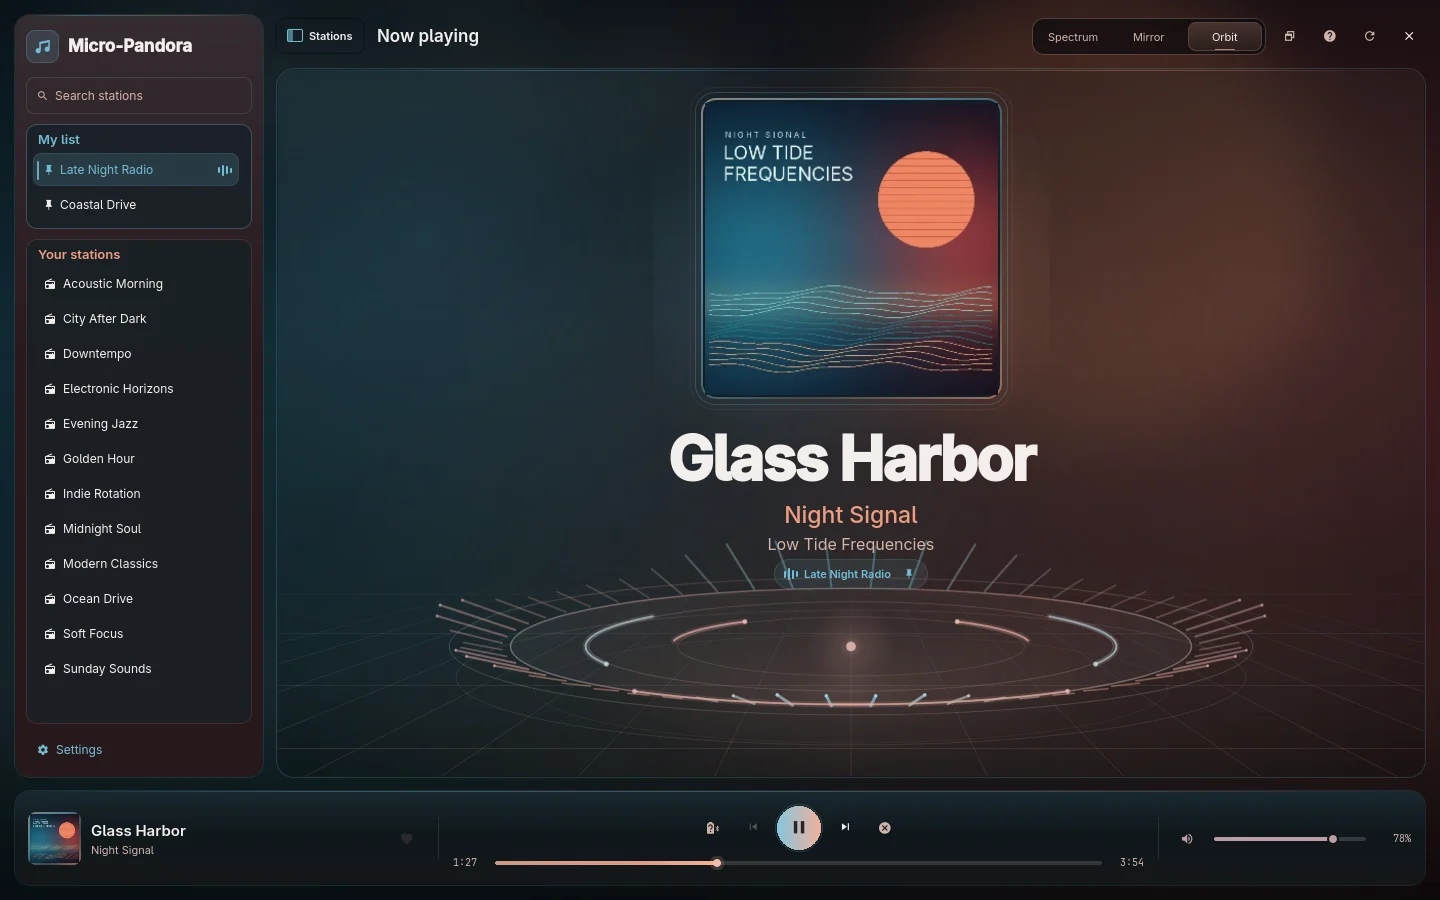
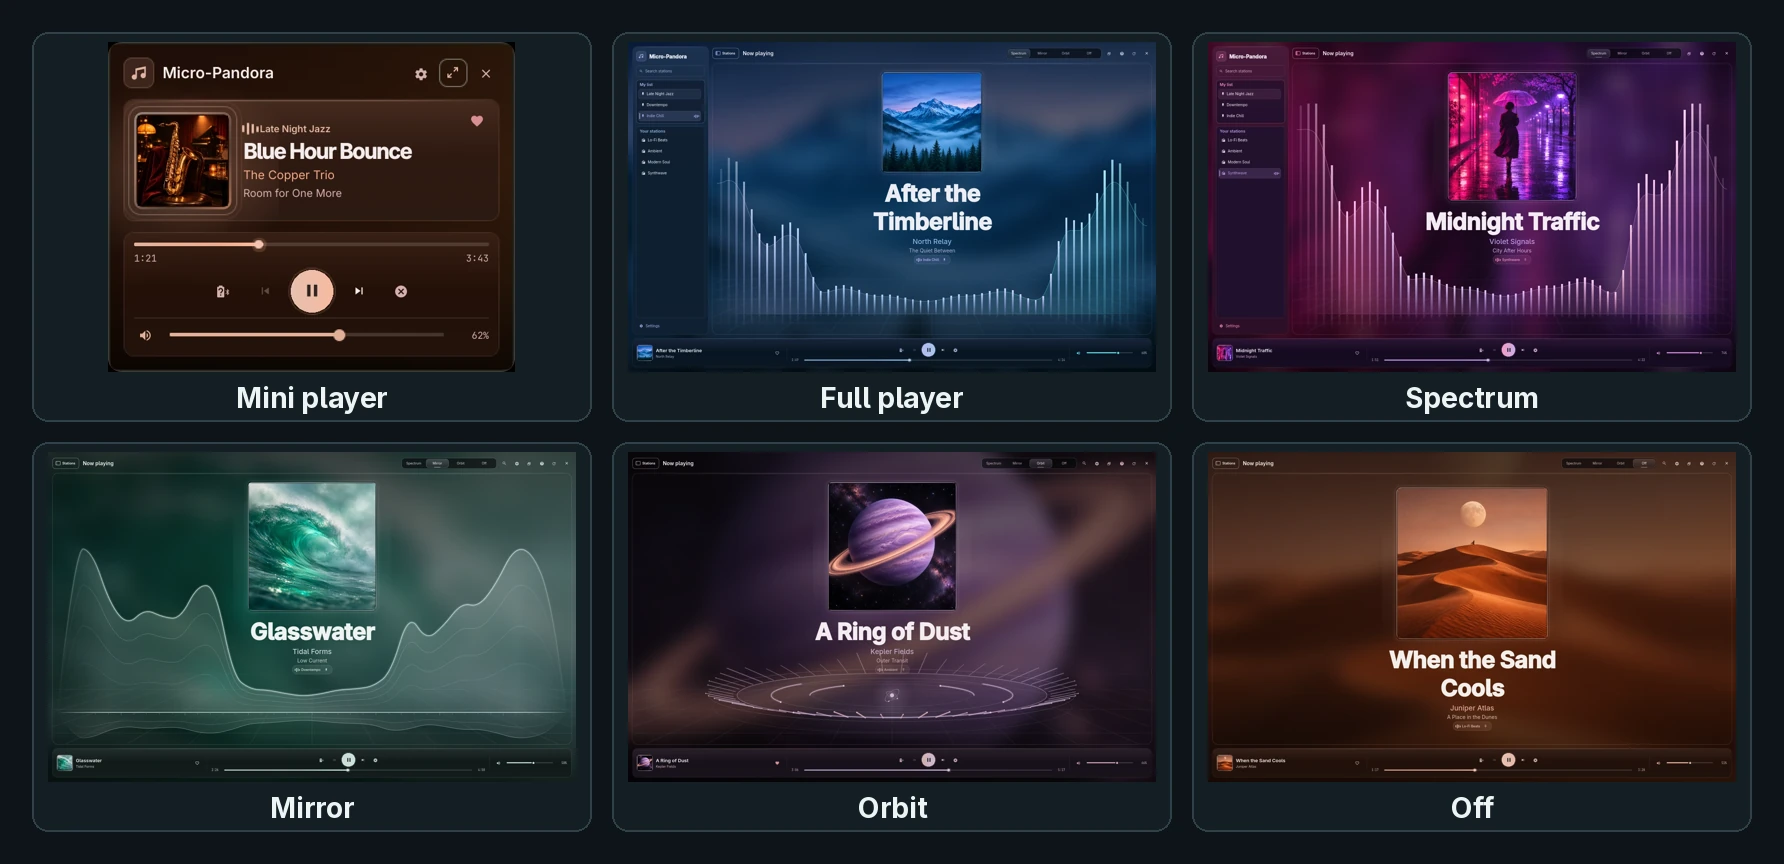
Show all screenshots and refresh Marketplace metadata

diff --git a/docs/index.html b/docs/index.html
@@ -42,7 +42,7 @@
       </figure>
       <figure class="mini-player">
         <a href="screenshots/mini-player.webp">
-          <img src="screenshots/mini-player.webp" width="686" height="556" alt="Mini player with amber saxophone cover art and compact playback controls" loading="lazy">
+          <img src="screenshots/mini-player.webp" width="686" height="556" alt="Mini player with amber saxophone cover art and compact playback controls">
         </a>
         <figcaption>
           <strong>Mini player</strong>
@@ -57,25 +57,25 @@
       <div class="modes">
         <figure>
           <a href="screenshots/spectrum.webp">
-            <img src="screenshots/spectrum.webp" width="1440" height="900" alt="Spectrum peaks beside a violet neon street cover" loading="lazy">
+            <img src="screenshots/spectrum.webp" width="1440" height="900" alt="Spectrum peaks beside a violet neon street cover">
           </a>
           <figcaption><strong>Spectrum</strong> <span>A frequency trace with peak markers.</span></figcaption>
         </figure>
         <figure>
           <a href="screenshots/mirror.webp">
-            <img src="screenshots/mirror.webp" width="1440" height="900" alt="Layered Mirror waveforms surrounding green ocean cover art" loading="lazy">
+            <img src="screenshots/mirror.webp" width="1440" height="900" alt="Layered Mirror waveforms surrounding green ocean cover art">
           </a>
           <figcaption><strong>Mirror</strong> <span>Layered waveforms reflected across the stage.</span></figcaption>
         </figure>
         <figure>
           <a href="screenshots/orbit.webp">
-            <img src="screenshots/orbit.webp" width="1440" height="900" alt="Orbit rings below a lavender planet cover" loading="lazy">
+            <img src="screenshots/orbit.webp" width="1440" height="900" alt="Orbit rings below a lavender planet cover">
           </a>
           <figcaption><strong>Orbit</strong> <span>Projected rings that respond to bass hits.</span></figcaption>
         </figure>
         <figure>
           <a href="screenshots/off.webp">
-            <img src="screenshots/off.webp" width="1440" height="900" alt="Full player with a terracotta desert cover and the visualizer set to Off" loading="lazy">
+            <img src="screenshots/off.webp" width="1440" height="900" alt="Full player with a terracotta desert cover and the visualizer set to Off">
           </a>
           <figcaption><strong>Off</strong> <span>Album artwork and playback controls without the visualizer.</span></figcaption>
         </figure>

diff --git a/README.md b/README.md
@@ -2,12 +2,11 @@
 
 Micro-Pandora is a Pandora player for the Omarchy desktop. Open it from the launcher or use the mini player on the bar. The full player enlarges the current album cover into a soft backdrop behind the sharp artwork and live visualizer. Both players pick up the album’s colors. Sign in from Micro-Pandora’s Settings and use Pithos as the playback backend.
 
-[![Micro-Pandora full player with blue mountain cover art, a station sidebar, and Spectrum](docs/screenshots/full-player.webp)](docs/layout.md#screenshots)
+## Screenshots
 
-<details>
-<summary>Mini player and visualizer screenshots</summary>
-
-[![Mini player with amber saxophone cover art](docs/screenshots/mini-player.webp)](docs/screenshots/mini-player.webp)
+| Mini player | Full player |
+| --- | --- |
+| [![Mini player with amber saxophone cover art](docs/screenshots/mini-player.webp)](docs/screenshots/mini-player.webp) | [![Full player with blue mountain cover art and a station sidebar](docs/screenshots/full-player.webp)](docs/screenshots/full-player.webp) |
 
 | Spectrum | Mirror |
 | --- | --- |
@@ -17,9 +16,7 @@ Micro-Pandora is a Pandora player for the Omarchy desktop. Open it from the laun
 | --- | --- |
 | [![Orbit with lavender planet cover art](docs/screenshots/orbit.webp)](docs/screenshots/orbit.webp) | [![Off with terracotta desert cover art](docs/screenshots/off.webp)](docs/screenshots/off.webp) |
 
-</details>
-
-See the [player layout guide](docs/layout.md#screenshots) for full-size screenshots and control details.
+See the [screenshot gallery](https://micro23.github.io/Micro-Pandora/) and the [player layout guide](docs/layout.md#screenshots).
 
 ## Install
 
@@ -50,6 +47,10 @@ Run `omarchy plugin remove io.github.micro23.micro-pandora` to remove the plugin
 - Open **Settings → App updates** to check for a release and install it when you’re ready. Background checks can be turned off there.
 
 See [installation](docs/install.md), [keyboard shortcuts](docs/keyboard.md), and [troubleshooting](docs/troubleshooting.md) for more.
+
+## Contact
+
+For problems, feedback, or questions about Micro-Pandora, email [micro23@gmail.com](mailto:micro23@gmail.com).
 
 ## Credits
 
